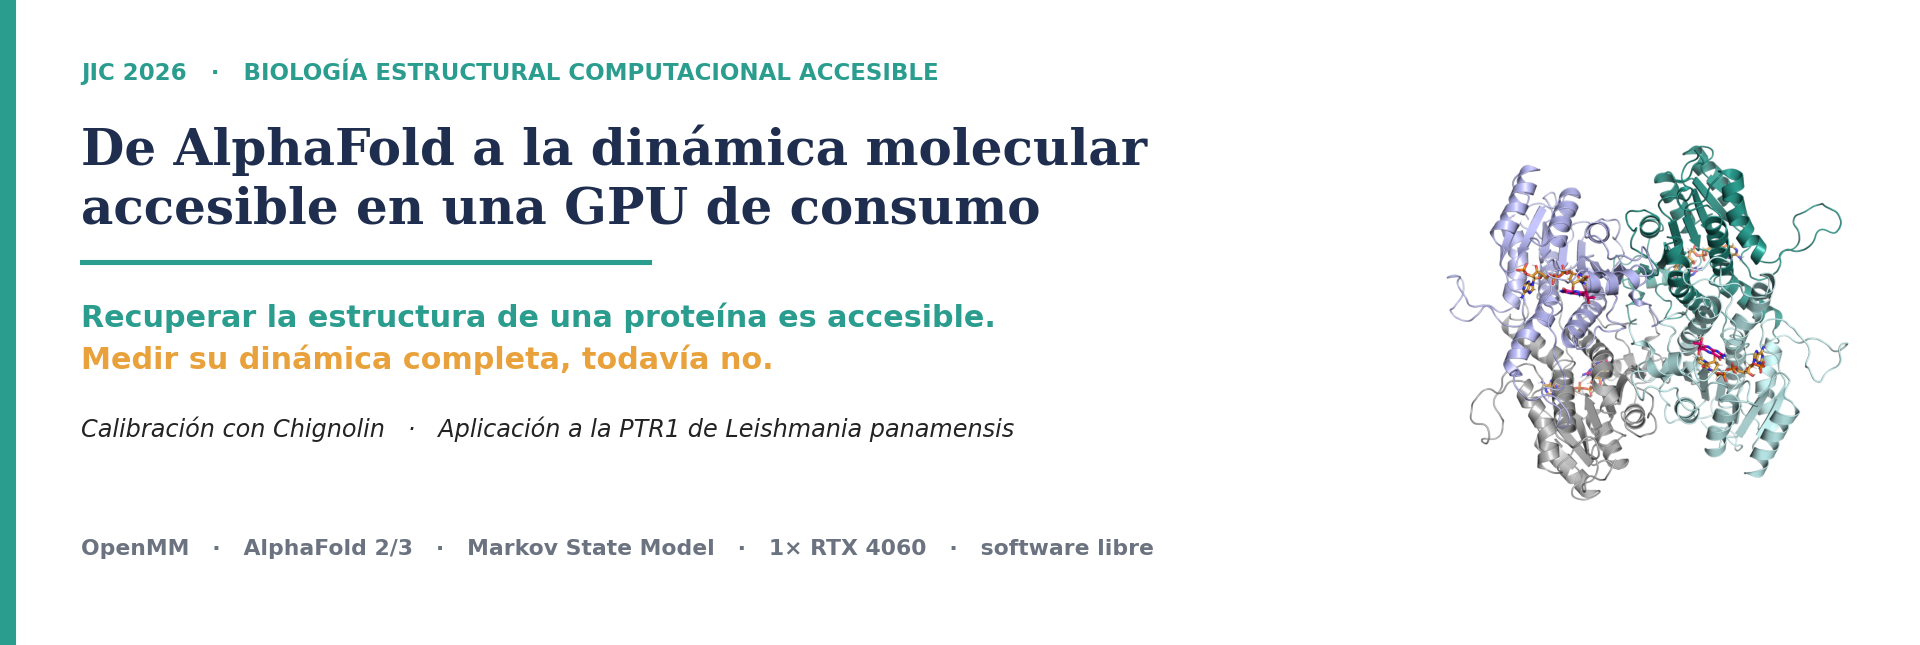
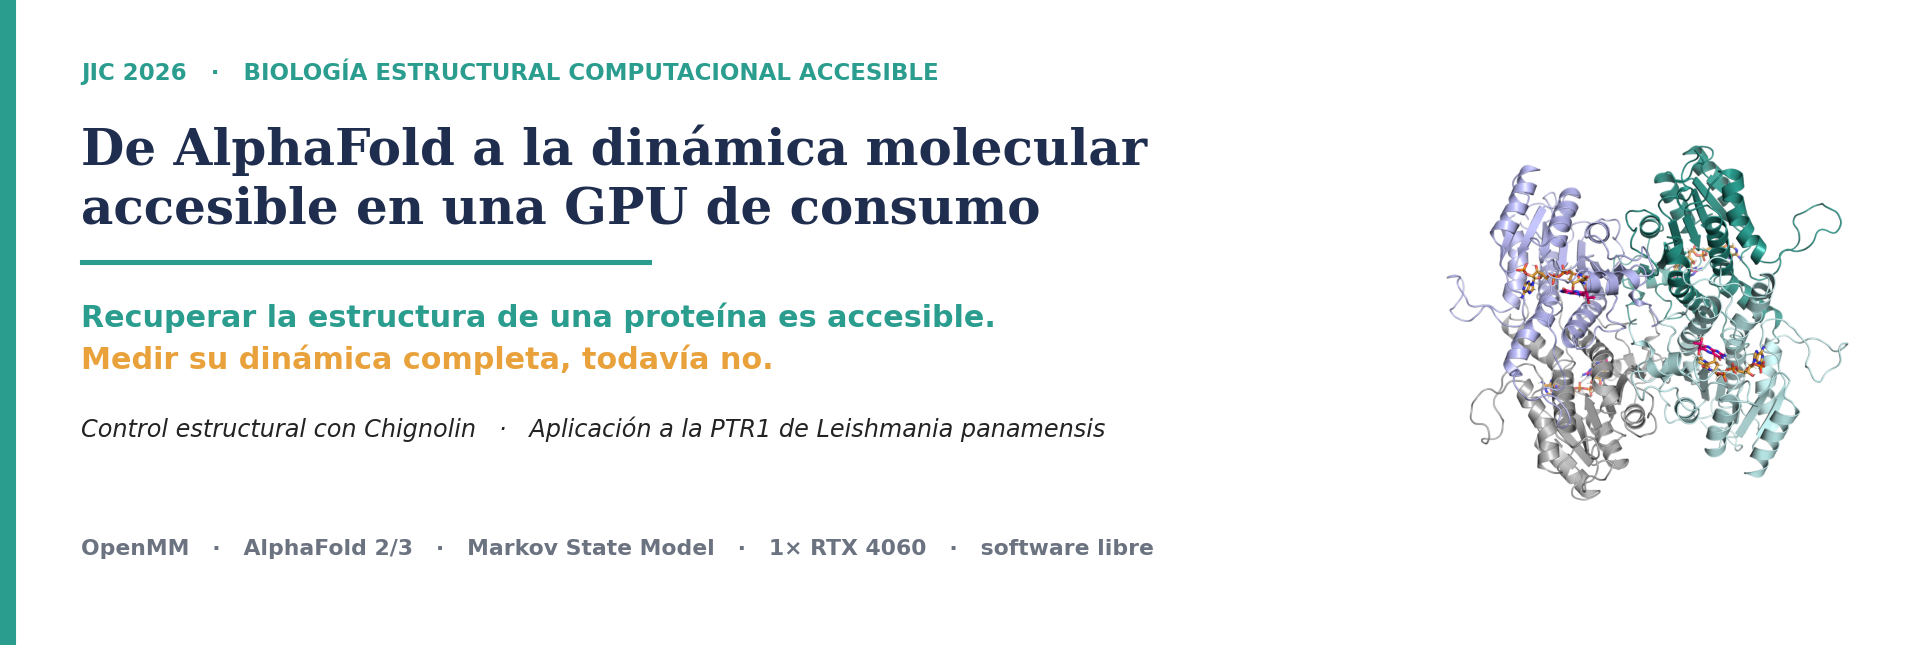
Corrige el titulo: calibracion -> control estructural
«Calibracion» describia una operacion que este trabajo no hace: no se ajusto
ningun parametro del campo de fuerzas (ff14SB se uso tal como viene). Lo que se
hizo con Chignolin es un control estructural del montaje contra una estructura
experimental conocida (5AWL). El cuerpo del articulo, el poster y la
presentacion ya lo llamaban asi; solo el titulo se habia quedado descolgado.

- CITATION.cff, README, docs/ y el banner alineados con el titulo nuevo.
- README: «Chignolin: calibracion del metodo» era una sobreafirmacion. El
  control comprueba que el montaje reproduce una estructura conocida; no valida
  el metodo ni transfiere validez al modelo de PTR1.
- README: la flecha del diagrama decia «valida el metodo». Ahora dice «mismo
  montaje, no valida PTR1», acorde al alcance real.
- paper/: PDF ciego reemplazado por el vigente.

Changed region(s): [[0.0625, 0.6512, 0.5938, 0.6822]]

diff --git a/assets/make_banner.py b/assets/make_banner.py
@@ -45,7 +45,7 @@ ax.text(LX, 212, "Recuperar la estructura de una proteína es accesible.",
 ax.text(LX, 240, "Medir su dinámica completa, todavía no.",
         color=AMBER, fontsize=14.5, fontweight="bold", family="DejaVu Sans", va="center")
 
-ax.text(LX, 286, "Calibración con Chignolin   ·   Aplicación a la PTR1 de Leishmania panamensis",
+ax.text(LX, 286, "Control estructural con Chignolin   ·   Aplicación a la PTR1 de Leishmania panamensis",
         color=INK, fontsize=11.5, family="DejaVu Sans", style="italic", va="center")
 
 ax.text(LX, 366, "OpenMM   ·   AlphaFold 2/3   ·   Markov State Model   ·   1× RTX 4060   ·   software libre",

diff --git a/README.md b/README.md
@@ -45,7 +45,7 @@ a la PTR1 (ámbar), cerrando con una triangulación estructural de cuatro vías:
 flowchart TB
     MET["Método accesible: 1x RTX 4060, OpenMM, software libre"]
 
-    subgraph CAL["Calibración: Chignolin"]
+    subgraph CAL["Control estructural: Chignolin"]
         direction TB
         C1["Estructura experimental"] --> C2["MD 450 ns"]
         C2 --> C3["Recupera la estructura: representativa 0.85 A<br/>AlphaFold2 0.90 A"]
@@ -63,7 +63,7 @@ flowchart TB
 
     MET -.-> CAL
     MET -.-> APP
-    CAL ==>|valida el método| APP
+    CAL -->|mismo montaje, no valida PTR1| APP
 
     classDef cal fill:#E8F4F2,stroke:#2A9D8F,color:#1F2D4E;
     classDef app fill:#FBF0DC,stroke:#E9A23B,color:#1F2D4E;
@@ -123,7 +123,7 @@ cuidado con que delimita lo que **no** afirma.
 
 ## 🔬 Resultados en detalle
 
-**Chignolin: calibración del método**
+**Chignolin: control estructural**
 - 450 ns de MD a 340 K. **Mediana del RMSD 0.91 Å** vs experimental (la estructura
   representativa del ensemble queda a 0.85 Å); **AlphaFold2 0.90 Å**, pLDDT ~94.
   Los dos métodos empatan por debajo de 1 Å.
@@ -193,7 +193,7 @@ hallazgo clínico. El mismo flujo, abierto, reproducible y de bajo costo, puede 
 
 ```
 .
-├── chignolin/          # Calibración (pipeline reproducible, config-driven): prep, muestreo, análisis, MSM
+├── chignolin/          # Control estructural (pipeline reproducible, config-driven): prep, muestreo, análisis, MSM
 ├── ptr1/               # Aplicación: PTR1 de L. panamensis (construcción, MD, mutantes, análisis)
 ├── alphafold/          # chignolin_af2/ (ColabFold) · ptr1_af3/ (AlphaFold Server + plantillas)
 ├── media/              # Animaciones de las trayectorias (mp4 + gif)

diff --git a/docs/reproducibility.md b/docs/reproducibility.md
@@ -9,7 +9,7 @@ conda env create -f environment.yml && conda activate jic-folding
 Cubre **OpenMM (CUDA), mdtraj y deeptime**. El módulo de PTR1 necesita además **AmberTools**
 (`tleap`, `antechamber`) para parametrizar NADPH/HBI, y **PyMOL** para los renders. Instálalos con `conda install -c conda-forge ambertools pymol-open-source`.
 
-## Chignolin (calibración)
+## Chignolin (control estructural)
 
 ```bash
 cd chignolin

diff --git a/docs/results_summary.md b/docs/results_summary.md
@@ -2,7 +2,7 @@
 
 > Métricas principales con sus caveats. El relato completo está en el README.
 
-## Chignolin: calibración
+## Chignolin: control estructural
 
 | Métrica | Valor | Nota |
 |---|---|---|